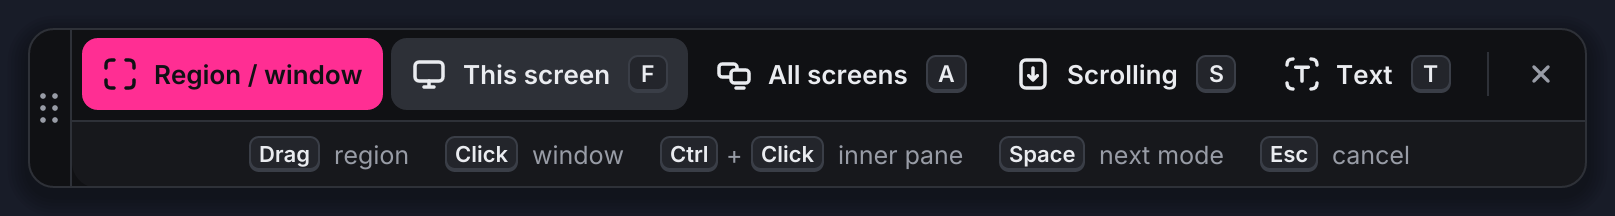
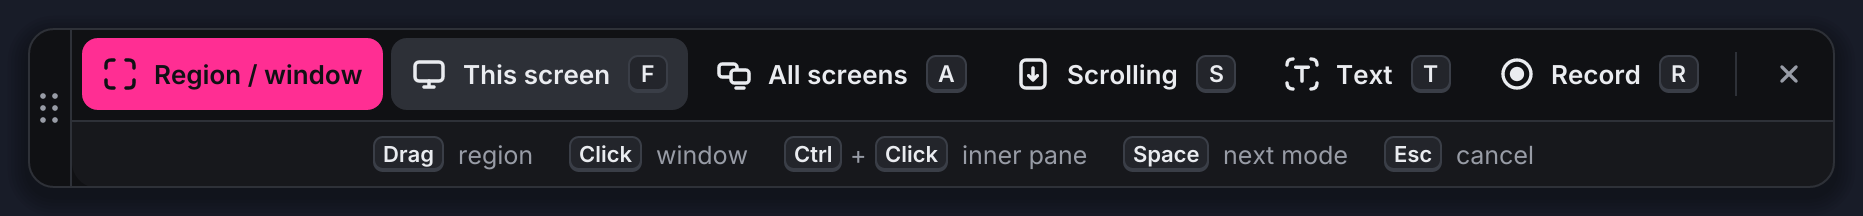
Site: screen recording section, History, QR codes and mouse pointer
Recording gets its own section with a picture drawn by Blink's own recording
code (the bar, the click ring, the pointer and a key label). The capture
section mentions QR codes and the mouse pointer, the hotkey table has the
recording hotkey, and the mode bar picture shows Record. History is in the
details cards and the FAQ answers whether recordings have sound or show typing.

diff --git a/site/index.html b/site/index.html
@@ -7,7 +7,7 @@
 <meta name="description" content="Blink is a free, open-source screenshot tool for Windows. Capture a region, window or whole scrolling page, annotate, blur what must stay private, and put it on a background or device mockup. Also records the screen to MP4 or GIF.">
 <meta name="theme-color" content="#101114">
 <meta property="og:title" content="Blink | Screenshots that look finished">
-<meta property="og:description" content="Free, open-source screenshot tool for Windows: capture, annotate, redact and present.">
+<meta property="og:description" content="Free, open-source screenshot tool for Windows: capture, annotate, redact and present, and record the screen to MP4 or GIF.">
 <meta property="og:type" content="website">
 <meta property="og:url" content="https://blink-screenshot.github.io/blink/">
 <meta property="og:image" content="https://blink-screenshot.github.io/blink/img/promo.png">
@@ -23,7 +23,7 @@
   "name": "Blink",
   "operatingSystem": "Windows 10, Windows 11",
   "applicationCategory": "MultimediaApplication",
-  "description": "Free, open-source screenshot tool for Windows with an annotation editor, real redaction, scrolling capture, backgrounds and device mockups.",
+  "description": "Free, open-source screenshot tool for Windows with an annotation editor, real redaction, scrolling capture, backgrounds and device mockups, text recognition and screen recording to MP4 or GIF.",
   "license": "https://www.gnu.org/licenses/gpl-3.0.html",
   "downloadUrl": "https://github.com/blink-screenshot/blink/releases/latest",
   "offers": { "@type": "Offer", "price": "0", "priceCurrency": "EUR" }
@@ -268,6 +268,7 @@
     </a>
     <nav class="main" aria-label="Main">
       <a href="#capture">Capture</a>
+      <a href="#record">Record</a>
       <a href="#edit">Edit</a>
       <a href="#private">Private info</a>
       <a href="#present">Present</a>
@@ -286,7 +287,7 @@
       <div class="hero-copy">
         <p class="eyebrow">Free and open-source screenshot tool for Windows</p>
         <h1>Screenshots that look <span class="hl">finished</span> the moment you take them.</h1>
-        <p class="lead">Capture a region, a window or a whole scrolling page. Mark it up, black out what is private, and put it on a background or a device. One small, native app, written in Rust, that starts with Windows and stays out of your way.</p>
+        <p class="lead">Capture a region, a window or a whole scrolling page. Mark it up, black out what is private, and put it on a background or a device. Or record it as MP4 or GIF. One small, native app, written in Rust, that starts with Windows and stays out of your way.</p>
         <div class="cta-row">
           <a class="btn primary" href="https://github.com/blink-screenshot/blink/releases/latest/download/Blink-Setup.exe">Download for Windows</a>
           <a class="btn" href="https://github.com/blink-screenshot/blink">View the source on GitHub</a>
@@ -304,7 +305,8 @@
   <div class="strip">
     <div class="wrap">
       <ul>
-        <li><span><b>7 capture modes</b> including scrolling pages, plus <b>copy text</b> and <b>screen recording</b></span></li>
+        <li><span><b>7 capture modes</b> including scrolling pages, plus <b>copy text</b></span></li>
+        <li><span><b>Screen recording</b> to MP4 or GIF</span></li>
         <li><span><b>Real redaction</b>, not a cosmetic blur</span></li>
         <li><span><b>17 backgrounds</b> and <b>18 device frames</b></span></li>
         <li><span><b>Free and open source.</b> No account.</span></li>
@@ -338,13 +340,15 @@
             <li>Window edges without the invisible resize border or shadow that Windows adds.</li>
             <li>Works on GPU-rendered apps such as Chrome, Edge and Electron, where copying a window directly often returns black. Blink cuts the window out of a frozen copy of the screen instead.</li>
             <li>Scrolling capture stitches the page together and recognises fixed headers and footers.</li>
-            <li><b>Record</b> a region, window or screen to <b>MP4 or GIF</b> (<kbd>R</kbd>, or <kbd>Ctrl</kbd> + <kbd>Alt</kbd> + <kbd>Shift</kbd> + <kbd>Print Screen</kbd>). The pointer, click rings and, if you switch it on, the shortcuts you press are added when you save, so you can still turn them off; trim the start and end before you share it. No sound, one monitor at a time.</li>
             <li><b>Copy text</b> instead of an image: in the Text mode (<kbd>T</kbd>), click a line, <kbd>Ctrl</kbd> + click a paragraph or drag over a region, and the text is on your clipboard. It is read by the OCR engine built into Windows, offline.</li>
+            <li><b>Read QR codes</b>: point at one in the overlay and the label shows what it says. Click to copy it, <kbd>Ctrl</kbd> + click to open a web link.</li>
+            <li><b>Include the mouse pointer</b> if you want it (Settings &gt; Capture). In the editor it is a separate object you can move, resize or delete.</li>
+            <li><b>Record</b> instead of capture: press <kbd>R</kbd> in the overlay. <a href="#record">More about recording</a>.</li>
           </ul>
         </div>
         <div>
           <figure>
-            <img src="img/capture-bar.png" width="808" height="108" loading="lazy" alt="The mode bar of the capture overlay: Region / window (active, in pink), This screen (F), All screens (A), Scrolling (S), Text (T), and a second row with Drag = region, Click = window, Ctrl + Click = inner pane, Space = next mode, Esc = cancel.">
+            <img src="img/capture-bar.png" width="932" height="108" loading="lazy" alt="The mode bar of the capture overlay: Region / window (active, in pink), This screen (F), All screens (A), Scrolling (S), Text (T), Record (R), and a second row with Drag = region, Click = window, Ctrl + Click = inner pane, Space = next mode, Esc = cancel.">
             <figcaption>The mode bar of the capture overlay.</figcaption>
           </figure>
           <div class="card" style="margin-top:20px">
@@ -358,6 +362,7 @@
                 <tr><td>Active window</td><td><kbd>Alt</kbd> + <kbd>Print Screen</kbd></td></tr>
                 <tr><td>Scrolling page</td><td><kbd>Ctrl</kbd> + <kbd>Shift</kbd> + <kbd>Print Screen</kbd></td></tr>
                 <tr><td>Copy text from the screen</td><td><kbd>Ctrl</kbd> + <kbd>Alt</kbd> + <kbd>Print Screen</kbd></td></tr>
+                <tr><td>Record the screen (again to stop)</td><td><kbd>Ctrl</kbd> + <kbd>Alt</kbd> + <kbd>Shift</kbd> + <kbd>Print Screen</kbd></td></tr>
                 <tr><td>Capture menu</td><td><kbd>Ctrl</kbd> + <kbd>Print Screen</kbd></td></tr>
               </tbody>
             </table>
@@ -368,8 +373,51 @@
     </div>
   </section>
 
+  <!-- RECORD -->
+  <section class="block alt" id="record">
+    <div class="wrap">
+      <div class="head">
+        <p class="eyebrow">Record</p>
+        <h2>When a screenshot is not enough, record it.</h2>
+        <p class="lead">Press <kbd>Ctrl</kbd> + <kbd>Alt</kbd> + <kbd>Shift</kbd> + <kbd>Print Screen</kbd>, or <kbd>R</kbd> in the capture overlay, and pick a region, a window or a screen. After a 3-2-1 countdown a small bar next to the area shows the time, with pause, stop and discard. Stop with the same hotkey and you have an MP4 or a GIF.</p>
+      </div>
+
+      <div class="row">
+        <figure>
+          <img src="img/record.png" width="868" height="620" loading="lazy" style="border-radius:var(--radius)" alt="A recording in progress: a team page inside a thin red frame, an orange ring where the mouse clicks the Invite member button, a Ctrl + C label at the bottom, and below the frame the recording bar with a red dot, 0:12, pause, stop and discard. Labels MP4 and GIF next to it.">
+          <figcaption>The click ring, the pointer and the <i>Ctrl + C</i> label are drawn by Blink when it saves the video.</figcaption>
+        </figure>
+        <div class="copy">
+          <h3>Clicks and shortcuts, so people can follow along</h3>
+          <ul class="ticks">
+            <li><b>MP4 or GIF</b>, at 15 or 30 frames per second</li>
+            <li>A <b>ring where you click</b> (orange for the left button, blue for the right), and if you want a soft circle that follows the pointer</li>
+            <li><b>Keys you press</b>, if you switch it on: shortcuts like <kbd>Ctrl</kbd> + <kbd>C</kbd>, <kbd>F5</kbd> or <kbd>Enter</kbd>, but not what you type, so passwords stay out of the video</li>
+            <li>The pointer, clicks and keys are added when you save, so you can still switch each of them off</li>
+            <li><b>Smooth on 4K.</b> On a screen at 200% scaling or more, Blink records at half size, which looks like the same screen at 100%: files four times smaller. Choose <i>Full resolution</i> to keep every pixel.</li>
+          </ul>
+        </div>
+      </div>
+
+      <div class="grid" style="margin-top:clamp(40px, 6vw, 72px)">
+        <div class="card">
+          <h3>Share it straight away</h3>
+          <p>A notification after each recording says how long and how large it is, with <i>Edit</i>, <i>As GIF</i> and <i>Copy</i>. Copy puts the file itself on the clipboard: paste it into Teams, Slack, an e-mail or a folder. Recordings go to Videos\Blink.</p>
+        </div>
+        <div class="card">
+          <h3>Trim before you send</h3>
+          <p><i>Edit</i> opens the clip window. Play it, drag the handles to cut off the start and the end, switch the pointer, clicks and keys on or off, and save as MP4 or GIF. It shows roughly how large the file will be before you save.</p>
+        </div>
+        <div class="card">
+          <h3>What it does not do (yet)</h3>
+          <p>No sound, one monitor at a time, and a window is recorded as the area it had when you started. Blink uses the video encoder that is part of Windows, so the download hardly grew; Windows N editions need the Media Feature Pack.</p>
+        </div>
+      </div>
+    </div>
+  </section>
+
   <!-- EDIT -->
-  <section class="block alt" id="edit">
+  <section class="block" id="edit">
     <div class="wrap">
       <div class="head">
         <p class="eyebrow">Edit</p>
@@ -422,7 +470,7 @@
   </section>
 
   <!-- PRIVATE INFO -->
-  <section class="block" id="private">
+  <section class="block alt" id="private">
     <div class="wrap">
       <div class="head">
         <p class="eyebrow">Find private info</p>
@@ -473,7 +521,7 @@
   </section>
 
   <!-- PRESENT -->
-  <section class="block alt" id="present">
+  <section class="block" id="present">
     <div class="wrap">
       <div class="head">
         <p class="eyebrow">Present</p>
@@ -501,7 +549,7 @@
   </section>
 
   <!-- DETAILS -->
-  <section class="block" id="details">
+  <section class="block alt" id="details">
     <div class="wrap">
       <div class="head">
         <p class="eyebrow">Built in Rust</p>
@@ -515,7 +563,7 @@
         </div>
         <div class="card">
           <h3>You decide what happens next</h3>
-          <p>After each capture: open the editor, copy, save, or have Blink ask you with a small menu at the mouse. The notification has <i>Edit</i>, <i>Save</i> and <i>Save as</i> buttons. PNG, JPEG, WebP and BMP.</p>
+          <p>After each capture: open the editor, copy, save, or have Blink ask you with a small menu at the mouse. The notification has <i>Edit</i>, <i>Save</i> and <i>Save as</i> buttons. PNG, JPEG, WebP and BMP. <b>History</b> in the tray menu keeps your latest screenshots, to copy or edit again.</p>
         </div>
         <div class="card">
           <h3>Installs without admin rights</h3>
@@ -531,14 +579,14 @@
         </div>
         <div class="card">
           <h3>Your screenshots stay on your PC</h3>
-          <p>No account, no cloud, no analytics. The only network request is the daily update check on GitHub, and you can turn it off.</p>
+          <p>No account, no cloud, no analytics. History is kept only on your PC: by default the last 10 screenshots for 24 hours, and you choose how many and how long. The only network request is the daily update check on GitHub, and you can turn it off.</p>
         </div>
       </div>
     </div>
   </section>
 
   <!-- COMPARE -->
-  <section class="block alt" id="compare">
+  <section class="block" id="compare">
     <div class="wrap">
       <div class="head">
         <p class="eyebrow">Compare</p>
@@ -598,7 +646,7 @@
   </section>
 
   <!-- DOWNLOAD -->
-  <section class="block" id="download">
+  <section class="block alt" id="download">
     <div class="wrap">
       <div class="head">
         <p class="eyebrow">Download</p>
@@ -648,7 +696,7 @@
   </section>
 
   <!-- FAQ -->
-  <section class="block alt" id="faq">
+  <section class="block" id="faq">
     <div class="wrap" style="max-width: 820px">
       <div class="head">
         <p class="eyebrow">FAQ</p>
@@ -665,11 +713,19 @@
       </details>
       <details>
         <summary>Does Blink upload my screenshots anywhere?</summary>
-        <p>No. Screenshots are kept in memory, in your clipboard, or in the folder you choose. The only network request Blink makes is a daily check for a new version on GitHub, which you can turn off.</p>
+        <p>No. Screenshots and recordings are kept in memory, in your clipboard, in History on your PC, or in the folder you choose. The only network request Blink makes is a daily check for a new version on GitHub, which you can turn off.</p>
       </details>
       <details>
         <summary>Where is the text in my screenshots read?</summary>
         <p>On your own PC. Copying text and <i>Find private info</i> use the OCR engine built into Windows, which works offline. Blink sends no image and no text to any server or AI service for it.</p>
+      </details>
+      <details>
+        <summary>Does screen recording record sound?</summary>
+        <p>Not yet. Recording makes a video without sound, of one monitor at a time. That covers how-tos, bug reports and short demos; if you need a voice-over, a tool like ShareX or OBS fits better for now.</p>
+      </details>
+      <details>
+        <summary>Will a recording show what I type?</summary>
+        <p>No, unless you ask for it. Showing keys is off by default. When you switch it on, the default is <i>Shortcuts and clicks only</i>: combinations like <kbd>Ctrl</kbd> + <kbd>C</kbd> and keys like <kbd>F5</kbd> or <kbd>Enter</kbd>, but never what you type, so passwords stay out of the video. Typed text is not even written to disk in that mode.</p>
       </details>
       <details>
         <summary>Print Screen still opens the Snipping Tool.</summary>
@@ -695,7 +751,7 @@
   </section>
 
   <!-- SUPPORT -->
-  <section class="block final" id="support">
+  <section class="block alt final" id="support">
     <div class="wrap">
       <p class="eyebrow">Support Blink</p>
       <h2 style="margin-top:12px">Free to use. Kept alive by people who use it.</h2>
